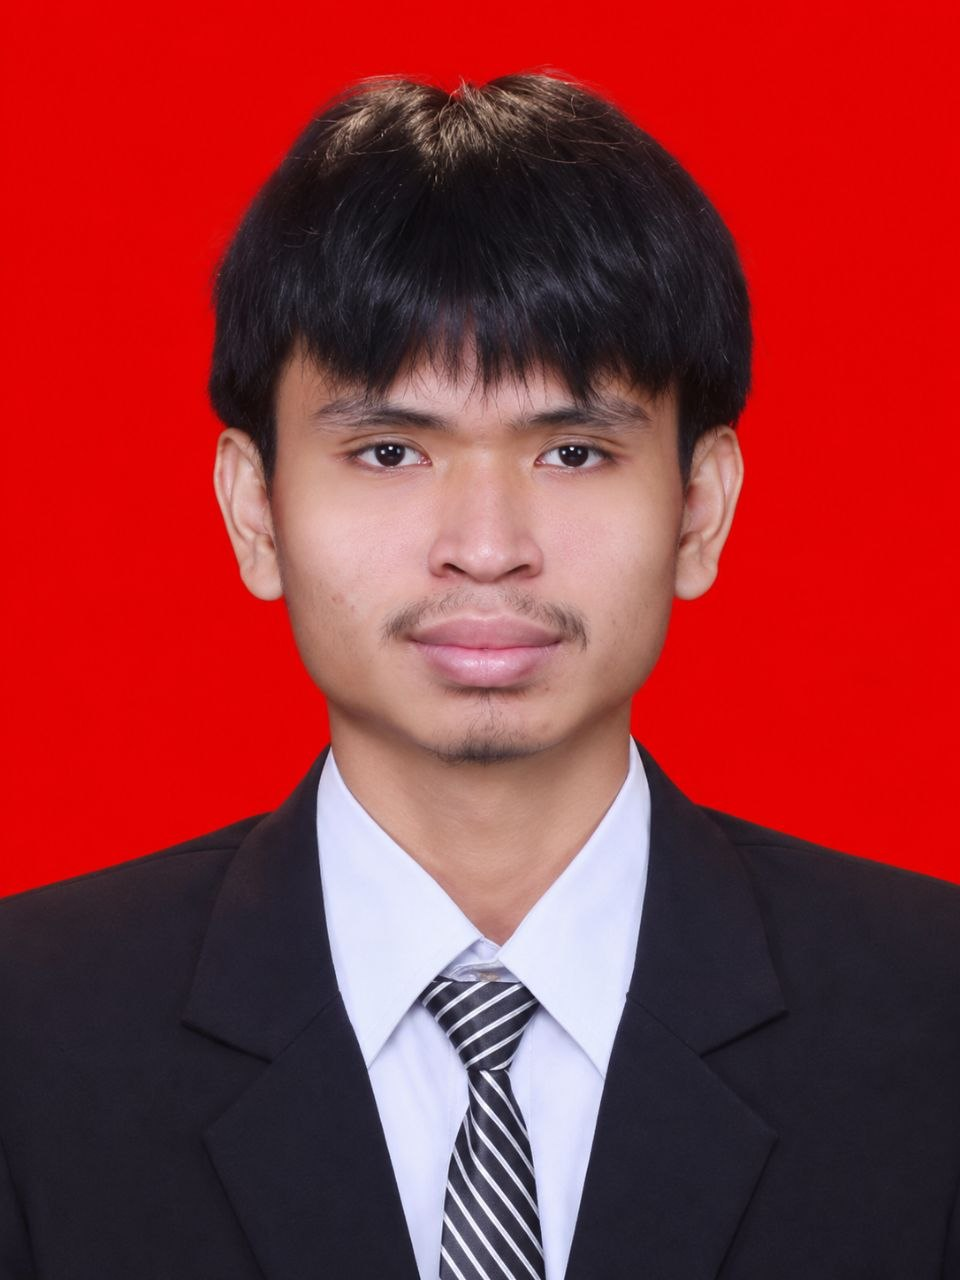
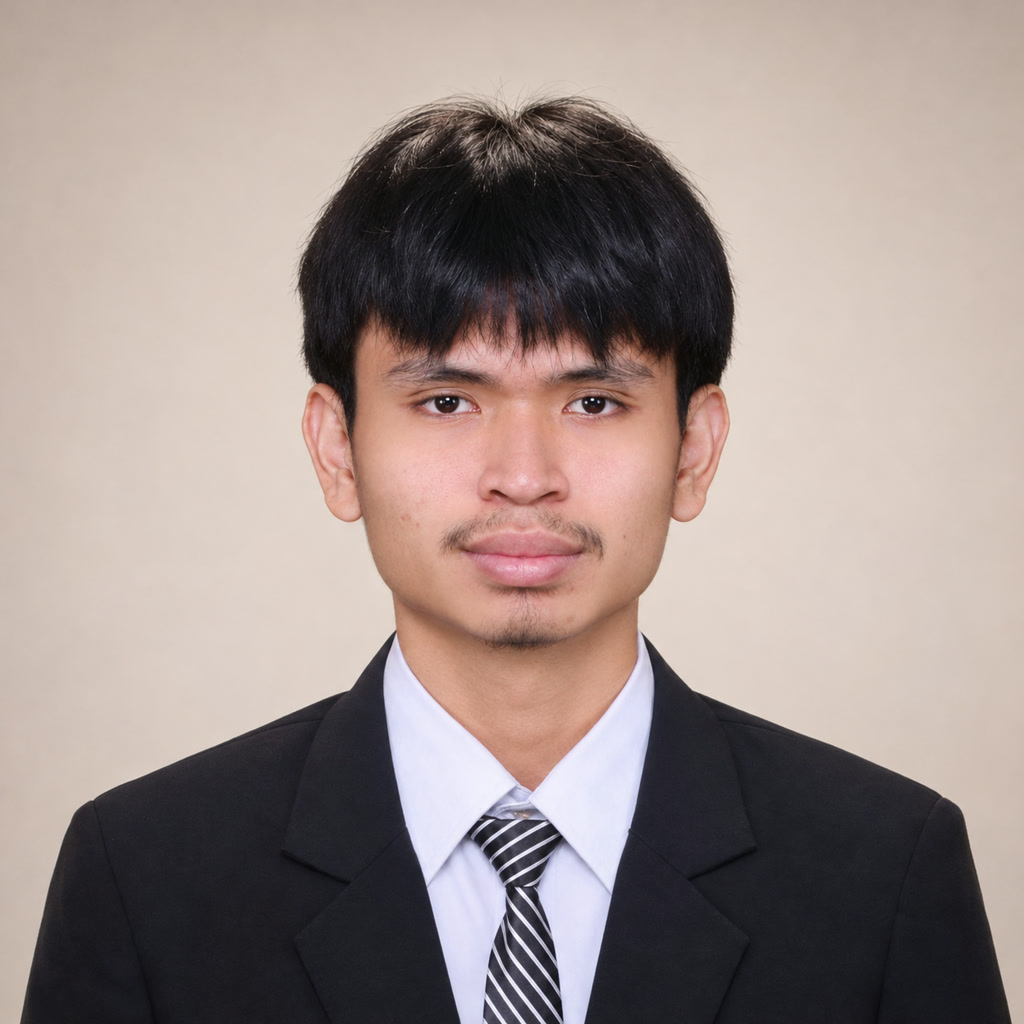
feat(image): refresh home and about portraits

diff --git a/src/views/user/AboutView.vue b/src/views/user/AboutView.vue
@@ -13,7 +13,6 @@ import { computed, ref } from "vue";
 import { useT } from "@/composables/useT";
 import { useLocalizedPath } from "@/composables/useLocalizedPath";
 import { fadeUp, revealUp, staggerDelay } from "@/composables/useMotionPresets";
-import { User as IconUser } from "@lucide/vue";
 
 const params = ref<ExperienceQueryParams>({ page: 1, size: 10 });
 const { data, isLoading, isError, error } = useExperiencesQuery(params);
@@ -92,29 +91,32 @@ const { withLocale } = useLocalizedPath();
         </p>
       </div>
 
-      <!-- * Placeholder sementara selagi foto asli belum disiapkan -->
       <div v-motion="fadeUp(0.15)" class="grid grid-cols-2 gap-4 mt-8 lg:mt-0 lg:sticky lg:top-24">
-        <div
-          role="img"
-          :aria-label="t('gallery.workingSetupAlt')"
-          class="flex items-center justify-center w-full h-56 transition-transform duration-500 shadow-lg rounded-xl md:h-72 hover:scale-105 bg-surface"
-        >
-          <IconUser class="size-12 md:size-16 text-content/30" />
-        </div>
-        <div
-          role="img"
-          :aria-label="t('gallery.codingSessionAlt')"
-          class="flex items-center justify-center w-full h-56 transition-transform duration-500 shadow-lg rounded-xl md:h-72 hover:scale-105 bg-surface"
-        >
-          <IconUser class="size-12 md:size-16 text-content/30" />
-        </div>
-        <div
-          role="img"
-          :aria-label="t('gallery.outdoorWorkspaceAlt')"
-          class="flex items-center justify-center w-full h-48 col-span-2 transition-transform duration-500 shadow-lg rounded-xl md:h-64 hover:scale-105 bg-surface"
-        >
-          <IconUser class="size-12 md:size-16 text-content/30" />
-        </div>
+        <img
+          src="/images/about-workspace.webp"
+          :alt="t('gallery.workingSetupAlt')"
+          width="768"
+          height="768"
+          decoding="async"
+          class="w-full h-56 object-cover transition-transform duration-500 shadow-lg rounded-xl md:h-72 hover:scale-105 bg-surface"
+        />
+        <img
+          src="/images/about-coding.webp"
+          :alt="t('gallery.codingSessionAlt')"
+          width="768"
+          height="768"
+          decoding="async"
+          class="w-full h-56 object-cover transition-transform duration-500 shadow-lg rounded-xl md:h-72 hover:scale-105 bg-surface"
+        />
+        <img
+          src="/images/about-outdoor.webp"
+          :alt="t('gallery.outdoorWorkspaceAlt')"
+          width="1600"
+          height="800"
+          loading="lazy"
+          decoding="async"
+          class="w-full h-48 col-span-2 object-cover transition-transform duration-500 shadow-lg rounded-xl md:h-64 hover:scale-105 bg-surface"
+        />
       </div>
     </section>
 

diff --git a/src/views/user/HomeView.vue b/src/views/user/HomeView.vue
@@ -50,7 +50,7 @@ const { handleTap: handleAvatarTap } = useSecretTap(() => {
   router.push({ name: "AdminLogin" });
 });
 
-const myPicture: string = "./images/profile.jpg";
+const myPicture: string = "/images/profile.jpg";
 </script>
 
 <template>
@@ -112,6 +112,10 @@ const myPicture: string = "./images/profile.jpg";
             v-if="myPicture"
             :src="myPicture"
             alt="Rizqiansyah Ramadhan"
+            width="1024"
+            height="1024"
+            fetchpriority="high"
+            decoding="async"
             class="relative object-cover rounded-full shadow-xl size-40 md:size-72 ring-4 ring-background select-none"
             @click="handleAvatarTap"
           />
